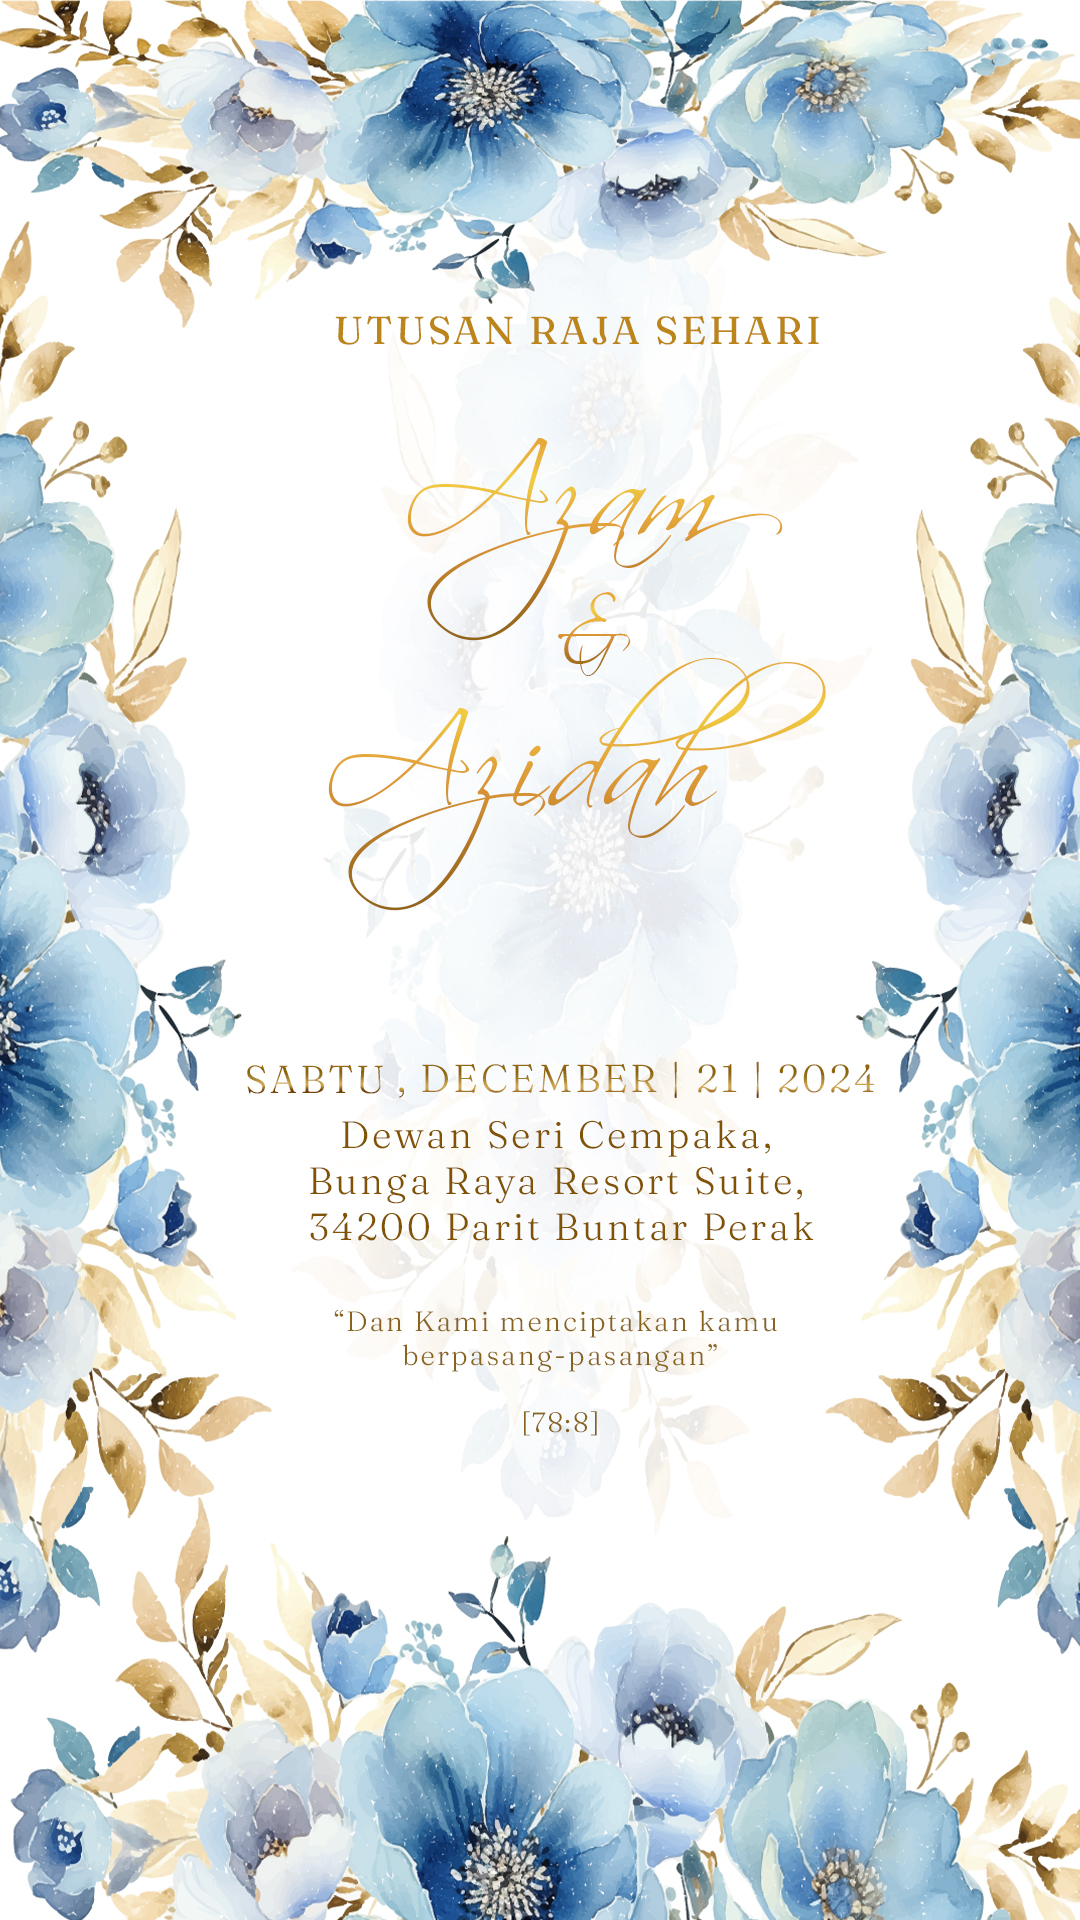
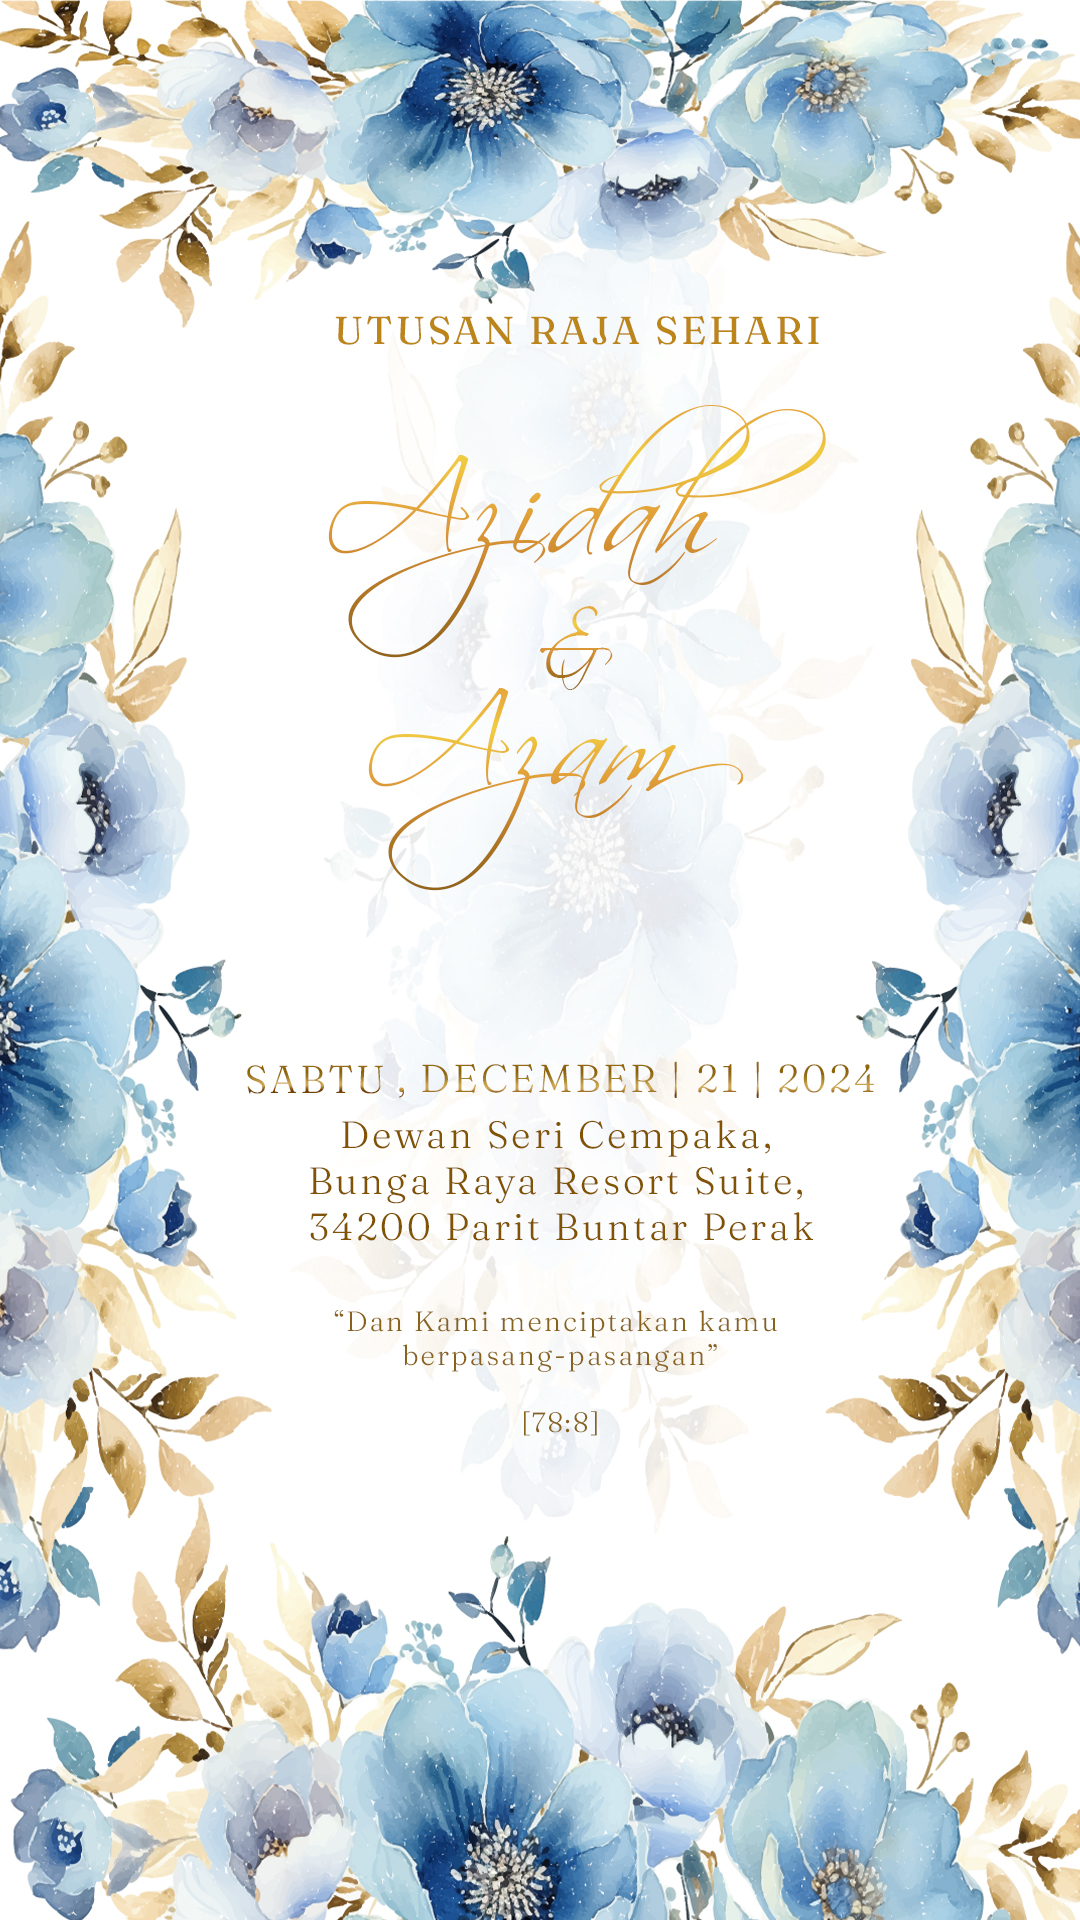
edit index
update name

diff --git a/index.html b/index.html
@@ -17,14 +17,14 @@
 		<meta http-equiv="X-UA-Compatible" content="ie=edge">
 		<meta name="viewport" content="width=device-width, initial-scale=1.0, maximum-scale=1.0, user-scalable=0">
 		
-		<title>Raikan Cinta | Azam &amp; Azidah</title>
+		<title>Raikan Cinta | Azidah &amp; Azam</title>
 		
-		<meta property="og:title" content="Raikan Cinta | Azam &amp; Azidah">
+		<meta property="og:title" content="Raikan Cinta | Azidah &amp; Azam">
 		<meta property="og:description" content="Tekan link untuk lihat undangan">
 		<meta name="og:description" content="Tekan link untuk lihat undangan">
 		<meta property="og:image" content="https://jemputanmajliskahwin.github.io/Azam_Azidah//kad_items/image/link-img.jpg?v=002">
 		
-		<meta name="twitter:title" content="Raikan Cinta | Azam &amp; Azidah">
+		<meta name="twitter:title" content="Raikan Cinta | Azidah &amp; Azam">
 		<meta name="twitter:description" content="Tekan link untuk lihat undangan">
 		<meta name="twitter:image" content="https://jemputanmajliskahwin.github.io/Azam_Azidah//kad_items/image/link-img.jpg?v=002">
 		
@@ -611,7 +611,7 @@
 								<input type="text" name="kehadiran" class="value-kehadiran-hadir" value="" readonly="">
 								<input type="text" name="tarikh_majlis_rsvp_1" class="value-tarikh-majlis-1" value="" readonly="">
 								<input type="text" name="majlis" value="1" readonly="">
-								<input type="text" name="nama_majlis" class="nama_majlis" id="nama_majlis" autocomplete="off" value="Raikan Cinta | Azam &amp; Azidah" readonly="">
+								<input type="text" name="nama_majlis" class="nama_majlis" id="nama_majlis" autocomplete="off" value="Raikan Cinta | Azidah &amp; Azam" readonly="">
 								<input type="text" name="url_ekad" class="url_ekad" id="url_ekad" autocomplete="off" value="" readonly=""> 
 								<input type="text" name="masa_sesi_input1" class="value-masa-fullday-majlis-1" value="" id="masa1" readonly="">
 								
@@ -692,7 +692,7 @@
 								<input type="text" name="kehadiran" class="value-kehadiran-tidak" value="" readonly="">
 								<input type="text" name="tarikh_majlis_rsvp_1" class="value-tarikh-majlis-1" value="" readonly="">
 								<input type="text" name="majlis" value="1" readonly="">
-								<input type="text" name="nama_majlis" class="nama_majlis" id="nama_majlis" autocomplete="off" value="Raikan Cinta | Azam &amp; Azidah" readonly="">
+								<input type="text" name="nama_majlis" class="nama_majlis" id="nama_majlis" autocomplete="off" value="Raikan Cinta | Azidah &amp; Azam" readonly="">
 								<input type="text" name="url_ekad" class="url_ekad" id="url_ekad" autocomplete="off" value="" readonly=""> 
 								<input type="text" name="ip_address" value="60.50.206.146" readonly="">
 							</div>
